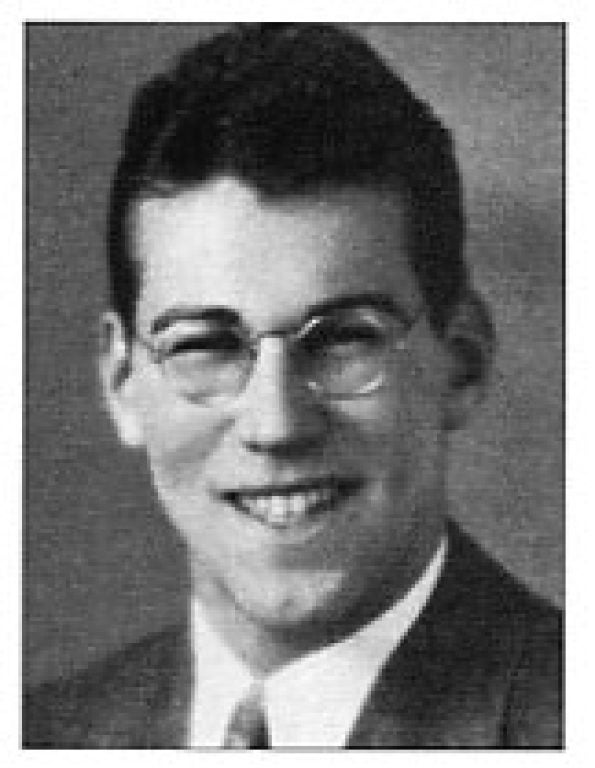
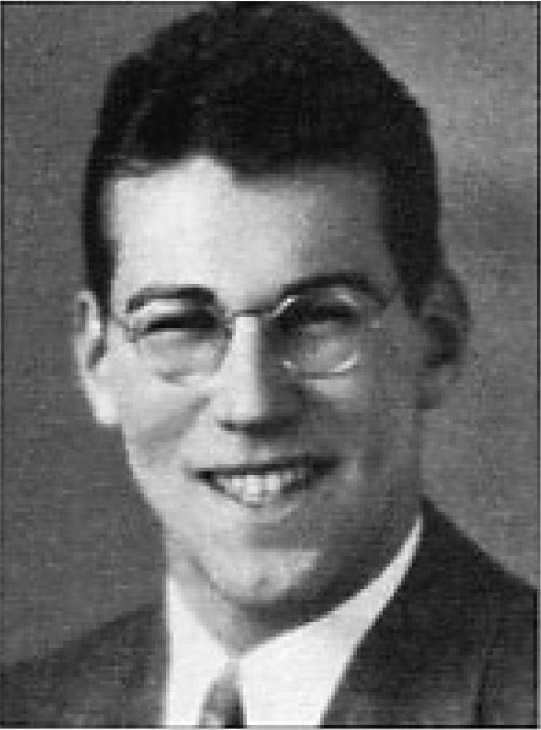
0950

diff --git a/dentalapp/about.html b/dentalapp/about.html
@@ -56,7 +56,7 @@
         <!-- Card Group -->
         <div class="card-group">
             <div class="card">
-              <img src="images/ben.jpg" height="600" width="300" class="card-img-top" alt="Benjamin Lewis Salomon">
+              <img src="images/ben.jpg" width="300" class="card-img-top" alt="Benjamin Lewis Salomon">
               <div class="card-body">
                 <h5 class="card-title">Benjamin Lewis Salomon</h5>
                 <p class="card-text">Benjamin Lewis Salomon is a graduate of the University of Southern California School of Dentistry, 
@@ -64,7 +64,7 @@
               </div>
             </div>
             <div class="card">
-              <img src="images/doc.jpeg" height="600" width="300" class="card-img-top" alt="Doc Holliday">
+              <img src="images/doc.jpeg" width="300" class="card-img-top" alt="Doc Holliday">
               <div class="card-body">
                 <h5 class="card-title">Doc Holliday</h5>
                 <p class="card-text">John Henry "Doc" Holliday is an American gambler, gunfighter, and dentist. He is also a graduate from 
@@ -73,7 +73,7 @@
               </div>
             </div>
             <div class="card">
-              <img src="images/robert.jpg" height="600" width="300" class="card-img-top" alt="Robert Tanner Freeman">
+              <img src="images/robert.jpg" width="300" class="card-img-top" alt="Robert Tanner Freeman">
               <div class="card-body">
                 <h5 class="card-title">Robert Tanner Freeman</h5>
                 <p class="card-text">Robert Tanner Freeman is the first professionally trained black dentist in the United States.  He eventually 

diff --git a/dentalapp/book.html b/dentalapp/book.html
@@ -45,8 +45,9 @@
         <div class="row">
             <div class="col">
                 <div class="jumbotron">
-                    <h1 class="display-4">Welcome!</h1>
-                    <p class="lead">Tell us your plan on remarks below and fill-up your contact information</p>
+                    <img src="images/logo.png" height="100" width="100" > 
+                    <h1 class="display-4">Thank You For Making Appointment with Us.</h1>
+                    <p class="lead">Tell us your plans on remarks below and fill-up your contact information</p>
                   </div>
             </div>
         </div>
